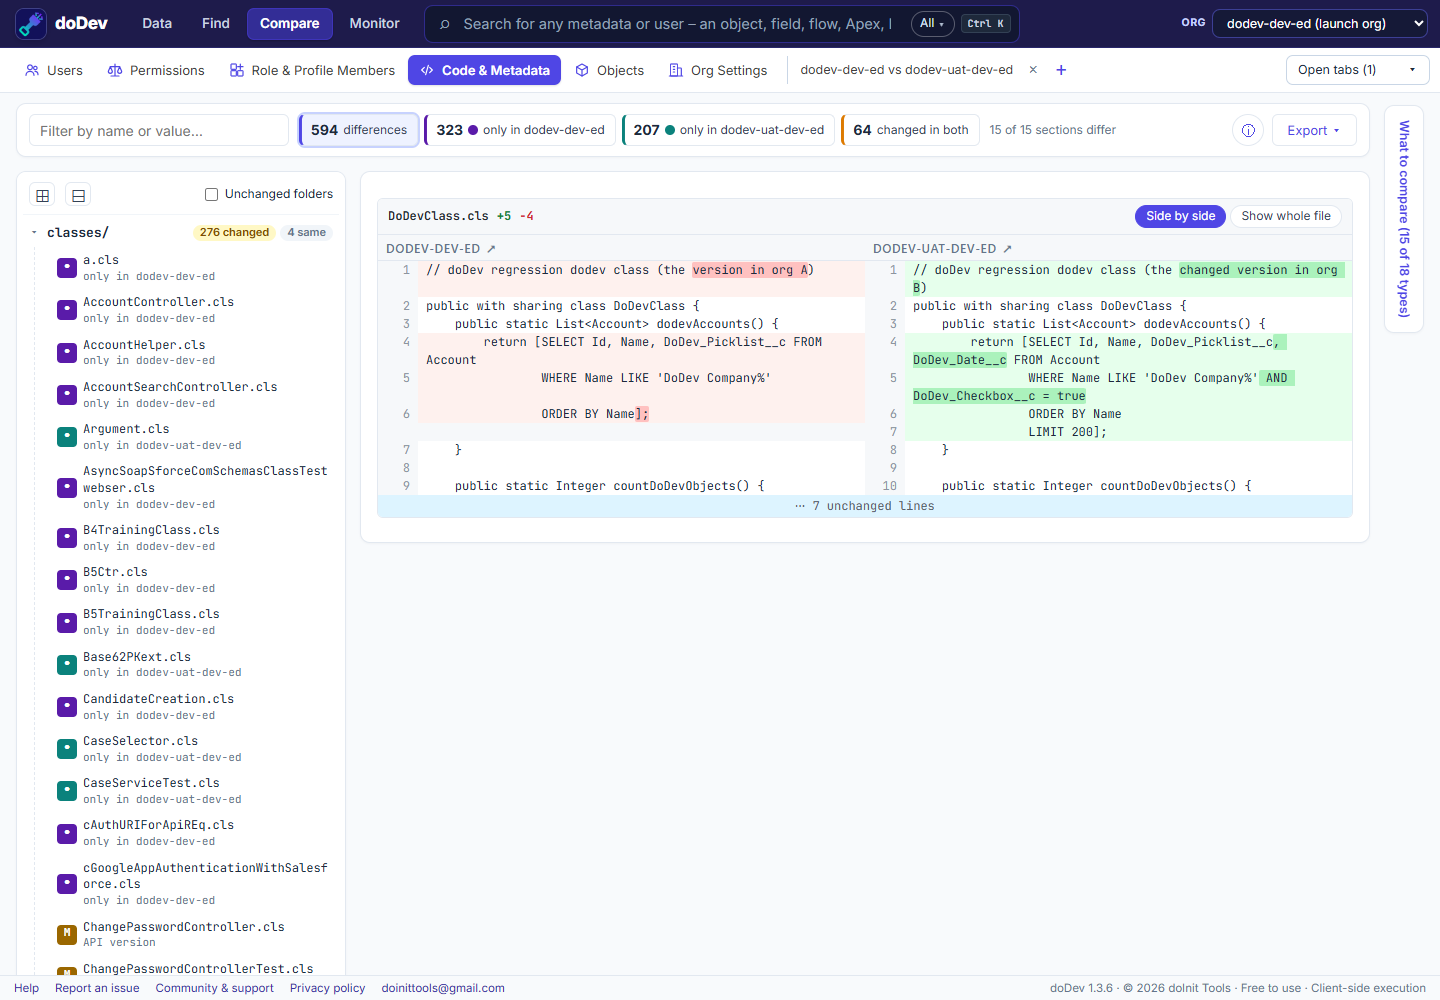
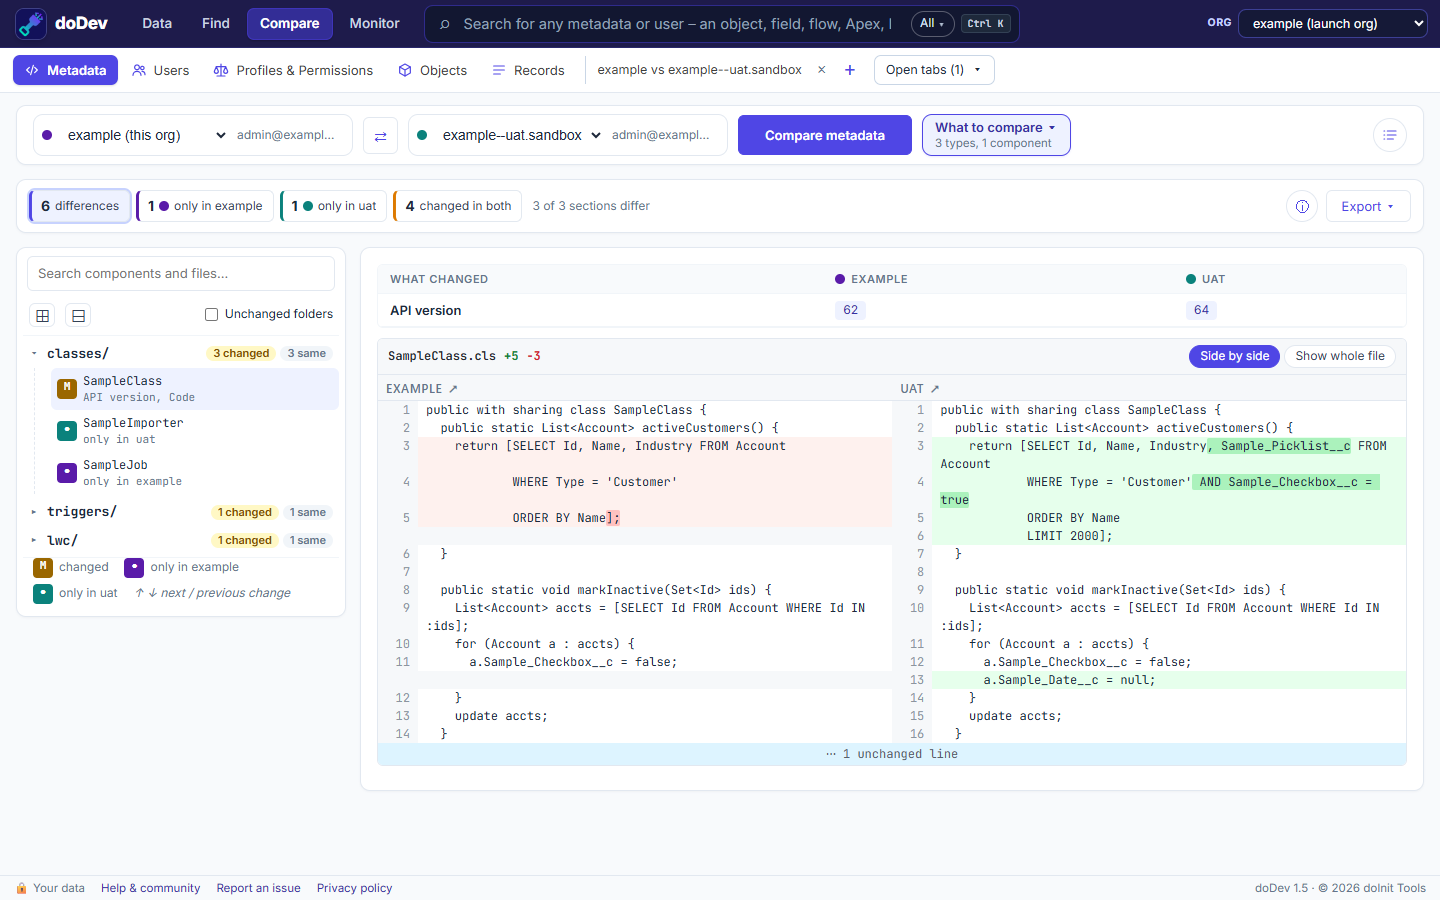
Help for doDev 1.5: Compare Metadata, What to compare, package.xml, settings tables

diff --git a/help/index.html b/help/index.html
@@ -31,7 +31,7 @@ layout: null
     <h1 class="hTitle">doDev Help</h1>
     <div class="hSearchRow">
       <input id="hSearch" class="hSearch" type="search" placeholder="Search the help – e.g. columns, record access, SOQL" aria-label="Search the help">
-      <span class="hVer" title="This help is kept in the public doinit-dodev-community repository, one version per doDev release">for doDev 1.4.3</span>
+      <span class="hVer" title="This help is kept in the public doinit-dodev-community repository, one version per doDev release">for doDev 1.5</span>
     </div>
     <div class="hLayout">
     <nav class="hToc" aria-label="Contents">
@@ -45,13 +45,11 @@ layout: null
       <a href="#refs">Where Is It Used</a>
       <a href="#inspect">Find Any Metadata</a>
       <div class="hTocGroup">Compare</div>
+      <a href="#code">Compare Metadata</a>
       <a href="#users">Compare Users</a>
-      <a href="#ps">Compare Permissions</a>
-      <a href="#persona">Role &amp; Profile Members</a>
-      <a href="#code">Compare Code &amp; Metadata</a>
+      <a href="#ps">Compare Profiles &amp; Permissions</a>
       <a href="#object">Compare Objects</a>
       <a href="#recs">Compare Records</a>
-      <a href="#org">Compare Org Settings</a>
       <div class="hTocGroup">Monitor</div>
       <a href="#jobs">Jobs</a>
       <div class="hTocGroup">More</div>
@@ -242,24 +240,55 @@ layout: null
         </ul>
       </section>
 
-      <section id="users">
-        <div class="hHead"><div class="hIcon compare">⇄</div><div><h2>Compare Users</h2><p class="hAsk">Why can one user do something another can't?</p></div><div class="hChips"><span class="hChip compare">Compare</span><span class="hChip reads">Only reads</span></div></div>
-        <p class="hGuides"><b>Guides:</b> <a href="../how-to/compare-two-users">Compare two users</a> · <a href="../how-to/compare-users-in-two-salesforce-orgs">A user in two orgs</a></p>
+      <section id="code">
+        <div class="hHead"><div class="hIcon compare">{ }</div><div><h2>Compare Metadata</h2><p class="hAsk">What differs between two orgs before a deployment – code, objects, access, OmniStudio, settings?</p></div><div class="hChips"><span class="hChip compare">Compare</span><span class="hChip reads">Only reads</span></div></div>
+        <p class="hGuides"><b>Guide:</b> <a href="../how-to/compare-apex-and-metadata-between-orgs">Compare Apex and metadata between orgs</a></p>
         <div class="hTop">
           <div class="hBox"><div class="hLbl">Quick start</div><ol>
-            <li>Pick 2–5 users, from any orgs.</li>
-            <li><span class="ui">Compare</span></li>
+            <li>Pick two orgs.</li>
+            <li>Under <span class="ui">What to compare</span>, pick a type in the empty line – then check <span class="ui">All</span>, or give names (separated by commas, or search). Each type adds a new line.</li>
+            <li>Or <span class="ui">⬆ Compare with a package.xml</span> – its components fill the lines.</li>
+            <li><span class="ui">Compare metadata</span></li>
+          </ol></div>
+          <div class="hBox use"><div class="hLbl">Use it when…</div><ul>
+            <li>Before a deployment – just what your package.xml lists.</li>
+            <li>Finding hotfixes made only in production.</li>
+            <li>A profile, an object or an OmniScript differs between sandbox and production.</li>
+          </ul></div>
+        </div>
+        <ul class="hKnow">
+          <li>Types: Apex, triggers, Visualforce, LWC, Aura, flows, page layouts, Lightning pages, objects, profiles, permission sets and groups, OmniStudio (OmniScripts, Integration Procedures, FlexCards, Data Mappers), labels, custom metadata and settings, named credentials, remote sites and org settings.</li>
+          <li>One tree like a project: <b>M</b> changed, a coloured dot for only in one org, <b>=</b> identical. Components you name are always listed – identical ones too – and the first one with a difference opens.</li>
+          <li>An object is a folder (fields, record types, rules, triggers, flows, layouts); a profile or permission set is a file per kind of permission. <span class="ui">Compare this … in detail ›</span> and <span class="ui">Open the detailed object comparison ›</span> open Compare Profiles &amp; Permissions or Compare Objects.</li>
+          <li>Search the tree for a component, a file in one, or text inside it. Single-value types (org-wide defaults, password and session policies, remote sites…) show as one table with <span class="ui">All · Changed · Same · Only in …</span> tabs.</li>
+          <li>Flows, layouts and pages are read one by one: checking <span class="ui">All</span> for them says it takes time. An object's layouts are read when you open them (marked <b>?</b> until then).</li>
+          <li><span class="ui">Export</span> has what the view shows: the status of each component and file, <b>+added −removed</b> lines (where the code was opened or is already read) and each setting that differs.</li>
+          <li id="org">Org settings (org-wide defaults, roles, password and session policies, IP ranges, connected apps, organization) are types here – Compare Org Settings is part of Compare Metadata now.</li>
+        </ul>
+      </section>
+
+      <section id="users">
+        <div class="hHead"><div class="hIcon compare">⇄</div><div><h2>Compare Users</h2><p class="hAsk">Why can one user do something another can't – or what does everyone in a role or profile have?</p></div><div class="hChips"><span class="hChip compare">Compare</span><span class="hChip reads">Only reads</span></div></div>
+        <p class="hGuides"><b>Guides:</b> <a href="../how-to/compare-two-users">Compare two users</a> · <a href="../how-to/compare-users-in-two-salesforce-orgs">A user in two orgs</a> · <a href="../how-to/role-and-profile-members">What everyone in a role or profile has</a></p>
+        <div class="hTop">
+          <div class="hBox"><div class="hLbl">Quick start</div><ol>
+            <li><span class="ui">Compare</span>: <b>Users</b> – pick 2–5 users, from any orgs. Or <b>All users in a profile</b> / <b>All users in a role</b> – pick the profile or role.</li>
+            <li><span class="ui">Compare</span> (or <span class="ui">Build matrix</span>)</li>
           </ol></div>
           <div class="hBox use"><div class="hLbl">Use it when…</div><ul>
             <li>A new hire can't see what a teammate can.</li>
             <li>Checking a user matches in sandbox and production.</li>
+            <li>Designing a permission set group for a team.</li>
           </ul></div>
         </div>
-        <ul class="hKnow"><li>Each difference names the profile, permission set or group behind it.</li></ul>
+        <ul class="hKnow">
+          <li>Each difference names the profile, permission set or group behind it.</li>
+          <li id="persona">Everyone in a role or profile (was Role &amp; Profile Members): Coverage, Matrix, Differences per person and a Suggested group (deployable).</li>
+        </ul>
       </section>
 
       <section id="ps">
-        <div class="hHead"><div class="hIcon compare">⇄</div><div><h2>Compare Permissions</h2><p class="hAsk">Why can one profile or permission set do something another can't?</p></div><div class="hChips"><span class="hChip compare">Compare</span><span class="hChip reads">Only reads</span></div></div>
+        <div class="hHead"><div class="hIcon compare">⇄</div><div><h2>Compare Profiles &amp; Permissions</h2><p class="hAsk">Why can one profile or permission set do something another can't?</p></div><div class="hChips"><span class="hChip compare">Compare</span><span class="hChip reads">Only reads</span></div></div>
         <p class="hGuides"><b>Guides:</b> <a href="../how-to/compare-profiles-and-permission-sets">Two profiles or permission sets</a> · <a href="../how-to/compare-profiles-between-two-salesforce-orgs">Between two orgs</a> · <a href="../how-to/compare-profile-with-permission-set">Profile vs permission set</a> · <a href="../how-to/compare-permission-sets-between-sandbox-and-production">Sandbox vs production</a> · <a href="../how-to/compare-permission-set-groups">Permission set groups</a></p>
         <div class="hTop">
           <div class="hBox"><div class="hLbl">Quick start</div><ol>
@@ -277,41 +306,6 @@ layout: null
         </ul>
       </section>
 
-      <section id="persona">
-        <div class="hHead"><div class="hIcon compare">👥</div><div><h2>Role &amp; Profile Members</h2><p class="hAsk">What does everyone in a role or profile have – and who is different?</p></div><div class="hChips"><span class="hChip compare">Compare</span><span class="hChip reads">Only reads</span></div></div>
-        <p class="hGuides"><b>Guide:</b> <a href="../how-to/role-and-profile-members">What everyone in a role or profile has</a></p>
-        <div class="hTop">
-          <div class="hBox"><div class="hLbl">Quick start</div><ol>
-            <li>Pick a role or a profile.</li>
-            <li><span class="ui">Build matrix</span></li>
-          </ol></div>
-          <div class="hBox use"><div class="hLbl">Use it when…</div><ul>
-            <li>Cleaning up permission sets.</li>
-            <li>Designing a permission set group for a team.</li>
-          </ul></div>
-        </div>
-        <ul class="hKnow"><li>Views: Coverage, Matrix, Differences per person, Suggested group (deployable).</li></ul>
-      </section>
-
-      <section id="code">
-        <div class="hHead"><div class="hIcon compare">{ }</div><div><h2>Compare Code &amp; Metadata</h2><p class="hAsk">What differs between two orgs before a deployment?</p></div><div class="hChips"><span class="hChip compare">Compare</span><span class="hChip reads">Only reads</span></div></div>
-        <p class="hGuides"><b>Guide:</b> <a href="../how-to/compare-apex-and-metadata-between-orgs">Compare Apex and metadata between orgs</a></p>
-        <div class="hTop">
-          <div class="hBox"><div class="hLbl">Quick start</div><ol>
-            <li>Pick two orgs.</li>
-            <li><span class="ui">Compare code &amp; metadata</span></li>
-          </ol></div>
-          <div class="hBox use"><div class="hLbl">Use it when…</div><ul>
-            <li>Before a deployment.</li>
-            <li>Finding hotfixes made only in production.</li>
-          </ul></div>
-        </div>
-        <ul class="hKnow">
-          <li><span class="ui">⚙ What to compare</span> narrows the types or names.</li>
-          <li>Side-by-side diffs; <kbd>j</kbd> / <kbd>k</kbd> jump between changes.</li>
-        </ul>
-      </section>
-
       <section id="object">
         <div class="hHead"><div class="hIcon compare">▤</div><div><h2>Compare Objects</h2><p class="hAsk">Is this object the same in both orgs?</p></div><div class="hChips"><span class="hChip compare">Compare</span><span class="hChip reads">Only reads</span></div></div>
         <p class="hGuides"><b>Guide:</b> <a href="../how-to/compare-an-object-between-orgs">Compare an object between two orgs</a></p>
@@ -324,7 +318,7 @@ layout: null
             <li>A record saves in the sandbox but not in production.</li>
           </ul></div>
         </div>
-        <ul class="hKnow"><li>Fields, picklist values, record types, validation rules, triggers, flows, layouts and pages.</li></ul>
+        <ul class="hKnow"><li>A report of one object: fields and picklist values as tables, record types, validation rules, triggers, flows, layouts and pages. In Compare Metadata, objects are folders of files – and open this report in one click.</li></ul>
       </section>
 
       <section id="recs">
@@ -344,22 +338,6 @@ layout: null
           <li>Lookups compare by name, so orgs with different Ids still match.</li>
           <li><span class="ui">⇄ Make a record match</span> writes an Apex script or Data Loader CSV – doDev changes nothing.</li>
         </ul>
-      </section>
-
-      <section id="org">
-        <div class="hHead"><div class="hIcon compare">⚙</div><div><h2>Compare Org Settings</h2><p class="hAsk">How are two orgs set up differently?</p></div><div class="hChips"><span class="hChip compare">Compare</span><span class="hChip reads">Only reads</span></div></div>
-        <p class="hGuides"><b>Guide:</b> <a href="../how-to/compare-org-settings">Compare settings between two orgs</a></p>
-        <div class="hTop">
-          <div class="hBox"><div class="hLbl">Quick start</div><ol>
-            <li>Pick two orgs.</li>
-            <li><span class="ui">Compare orgs</span></li>
-          </ol></div>
-          <div class="hBox use"><div class="hLbl">Use it when…</div><ul>
-            <li>A login problem happens in one org only.</li>
-            <li>Before refreshing a sandbox.</li>
-          </ul></div>
-        </div>
-        <ul class="hKnow"><li>Sharing defaults, roles, password and session policies, IP ranges, connected apps.</li></ul>
       </section>
 
       <section id="jobs">

diff --git a/how-to/compare-apex-and-metadata-between-orgs.md b/how-to/compare-apex-and-metadata-between-orgs.md
@@ -8,20 +8,22 @@ image: /how-to/img/compare-apex-and-metadata-between-orgs.png
 
 **Short answer:** change sets don't show what is different between two orgs. The usual way is to retrieve both orgs' metadata with the Salesforce CLI and compare the folders in an editor. doDev, a free Chrome extension, compares the two orgs you are logged into directly and shows a side-by-side diff.
 
-![Compare Code & Metadata in doDev: a project tree with changed and identical counts, and a side-by-side diff of an Apex class](img/compare-apex-and-metadata-between-orgs.png)
+![Compare Metadata in doDev: a project tree with changed and identical counts, and a side-by-side diff of an Apex class](img/compare-apex-and-metadata-between-orgs.png)
 
 ## Compare them with doDev
 
 1. [Install doDev](https://chromewebstore.google.com/detail/agcjfjpmlmfbdbgfohficnccnknimhbd?utm_source=dodev-site&utm_medium=how-to) and log into both orgs in the same browser (e.g. a sandbox and production).
-2. Open doDev and go to **Compare → Code & Metadata**.
-3. Pick the two orgs. Everything is compared by default; **⚙ What to compare** narrows it to some types or names.
-4. Click **Compare code & metadata**.
+2. Open doDev and go to **Compare → Metadata**.
+3. Pick the two orgs. Under **What to compare**, pick a type (Apex Classes, Flows, Objects, Profiles…) and check **All** or give the names – or **⬆ Compare with a package.xml** to compare just what it lists.
+4. Click **Compare metadata**.
 
 You get:
 
 - **A project tree** – the same folders as an SFDX project – with changed and identical counts.
 - **A side-by-side diff** for each changed file or component; ↑ / ↓ (or j / k) jump between changes.
 - **Line endings** – when only Windows / Unix line endings differ, that is said plainly instead of a diff full of identical lines.
+- **More than code** – objects (fields, record types, rules, layouts), profiles and permission sets, OmniStudio and org settings, in the same tree. The components you name are always listed, identical ones too.
+- **Export** – CSV or Excel with each component's status and its +added −removed lines.
 
 For a single class, **Find Any Metadata → ⇄ Compare with** shows the same diff without comparing the whole org.
 

diff --git a/how-to/compare-org-settings.md b/how-to/compare-org-settings.md
@@ -13,8 +13,8 @@ image: /how-to/img/compare-org-settings.png
 ## Compare them with doDev
 
 1. [Install doDev](https://chromewebstore.google.com/detail/agcjfjpmlmfbdbgfohficnccnknimhbd?utm_source=dodev-site&utm_medium=how-to) and log into both orgs in the same browser.
-2. Open doDev and go to **Compare → Org Settings**.
-3. Pick the two orgs and click **Compare orgs**.
+2. Open doDev and go to **Compare → Metadata**.
+3. Pick the two orgs. Under **What to compare**, pick the org settings you want – Org-Wide Defaults, Roles, Password Policies, Session Settings, Trusted IP Ranges, Connected App Policies, Organization – and click **Compare metadata**.
 
 You get, with the values that differ highlighted:
 
@@ -24,7 +24,7 @@ You get, with the values that differ highlighted:
 - **Connected app policies.**
 - **Organization settings.**
 
-A tree on the left lists all differences by section; the sections that are the same in both orgs are kept apart under *Identical in all orgs*.
+Each one is a table of every item – org-wide defaults for every object, A–Z – with **All · Changed · Same · Only in …** tabs, so you can see just what differs.
 
 ## Doing it without a tool
 
@@ -32,4 +32,4 @@ Open Sharing Settings, Password Policies, Session Settings, Network Access and t
 
 ---
 
-More how-to guides: [all guides](./) · [doDev help](../help/#org)
+More how-to guides: [all guides](./) · [doDev help](../help/#code)

diff --git a/privacy.md b/privacy.md
@@ -44,7 +44,7 @@ Only these, encrypted, in your browser's storage for this Extension – never Sa
 - **Recent runs** – the inputs you chose in each tool (e.g. names of profiles, users or orgs, an object or record Id), never results. *Remove:* the × next to each one.
 - **Last session** – which tools were open, their names and last inputs or query, so they can be restored. *Remove:* close the tools.
 - **Recent searches** – your last 8 searches in the search box per org (the name and Id of what you opened). *Remove:* Clear.
-- **Preferences** – Compare Code & Metadata scope per pair of orgs, where Where Is It Used looks, hidden table columns. *Change them in the tool.*
+- **Preferences** – Compare Metadata's "What to compare" per pair of orgs, where Where Is It Used looks, hidden table columns. *Change them in the tool.*
 
 Clearing your browser's site data for the Extension removes all of this, including the key.
 
